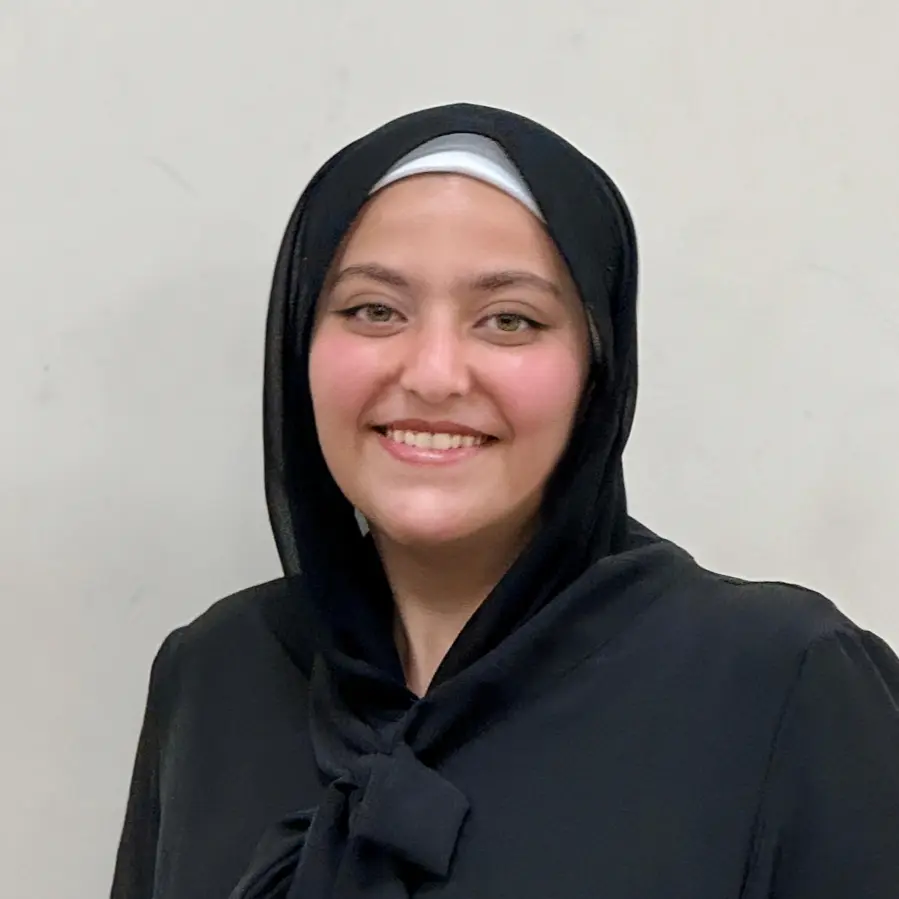
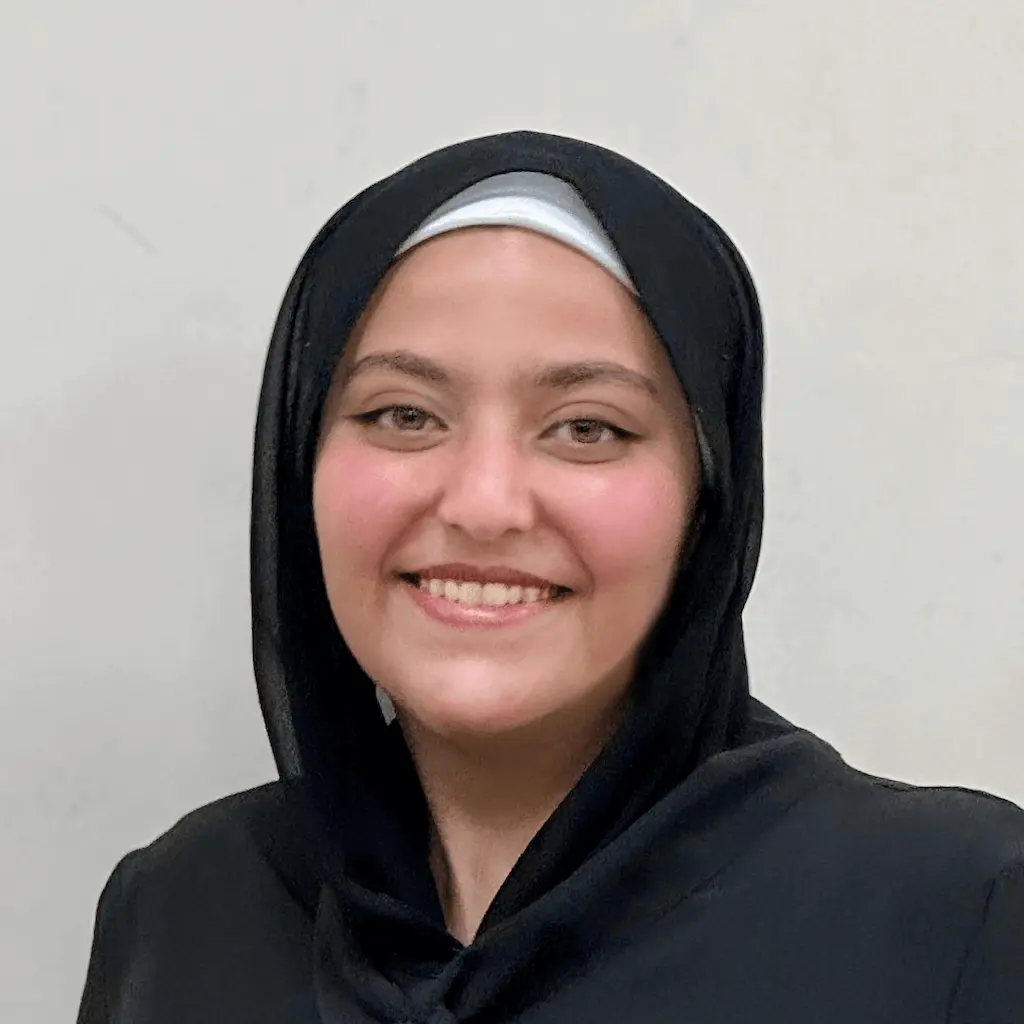
add new images

diff --git a/app/routes/_layout.about/route.tsx b/app/routes/_layout.about/route.tsx
@@ -1,21 +1,21 @@
 import { Link } from "@remix-run/react";
 import { LinkedinIcon } from "lucide-react";
 import { useId } from "react";
-import ahmed from "~/assets/Ahmed.png";
+import ahmed from "~/assets/Ahmed.webp";
 import SearchIcon from "~/assets/Ai-search.svg?react";
-import bahaa from "~/assets/Bahaa.jpg";
+import bahaa from "~/assets/Bahaa.webp";
 import BookStackIcon from "~/assets/bookstack.svg?react";
 import CheckerIcon from "~/assets/checker.svg?react";
 import deena from "~/assets/Deena.webp";
-import essmat from "~/assets/Essmat.jpg";
+import essmat from "~/assets/Essmat.webp";
 import SummaryIcon from "~/assets/fast-summerization.svg?react";
 import FasterIcon from "~/assets/faster.svg?react";
 import UiIcon from "~/assets/minimalist-ui.svg?react";
 import MobileIcon from "~/assets/mobile.svg?react";
 import MultiLangIcon from "~/assets/multi-lang.svg?react";
-import nour from "~/assets/Nour.jpg";
+import nour from "~/assets/Nour.webp";
 import TeamIcon from "~/assets/team.svg?react";
-import zeyad from "~/assets/Zeyad.jpg";
+import zeyad from "~/assets/Zeyad.webp";
 
 export default function About() {
 	const visionSectionId = useId();
@@ -161,8 +161,8 @@ function TeamSection() {
 
 function Creator({ linkedin, image, name }: { linkedin: string; image: string; name: string }) {
 	return (
-		<div className="group flex flex-col items-center">
-			<Link to={linkedin} target="_blank" rel="noreferrer noopener" className="relative">
+		<div className="flex flex-col items-center">
+			<Link to={linkedin} target="_blank" rel="noreferrer noopener" className="group relative">
 				<img
 					src={image}
 					alt={name}
